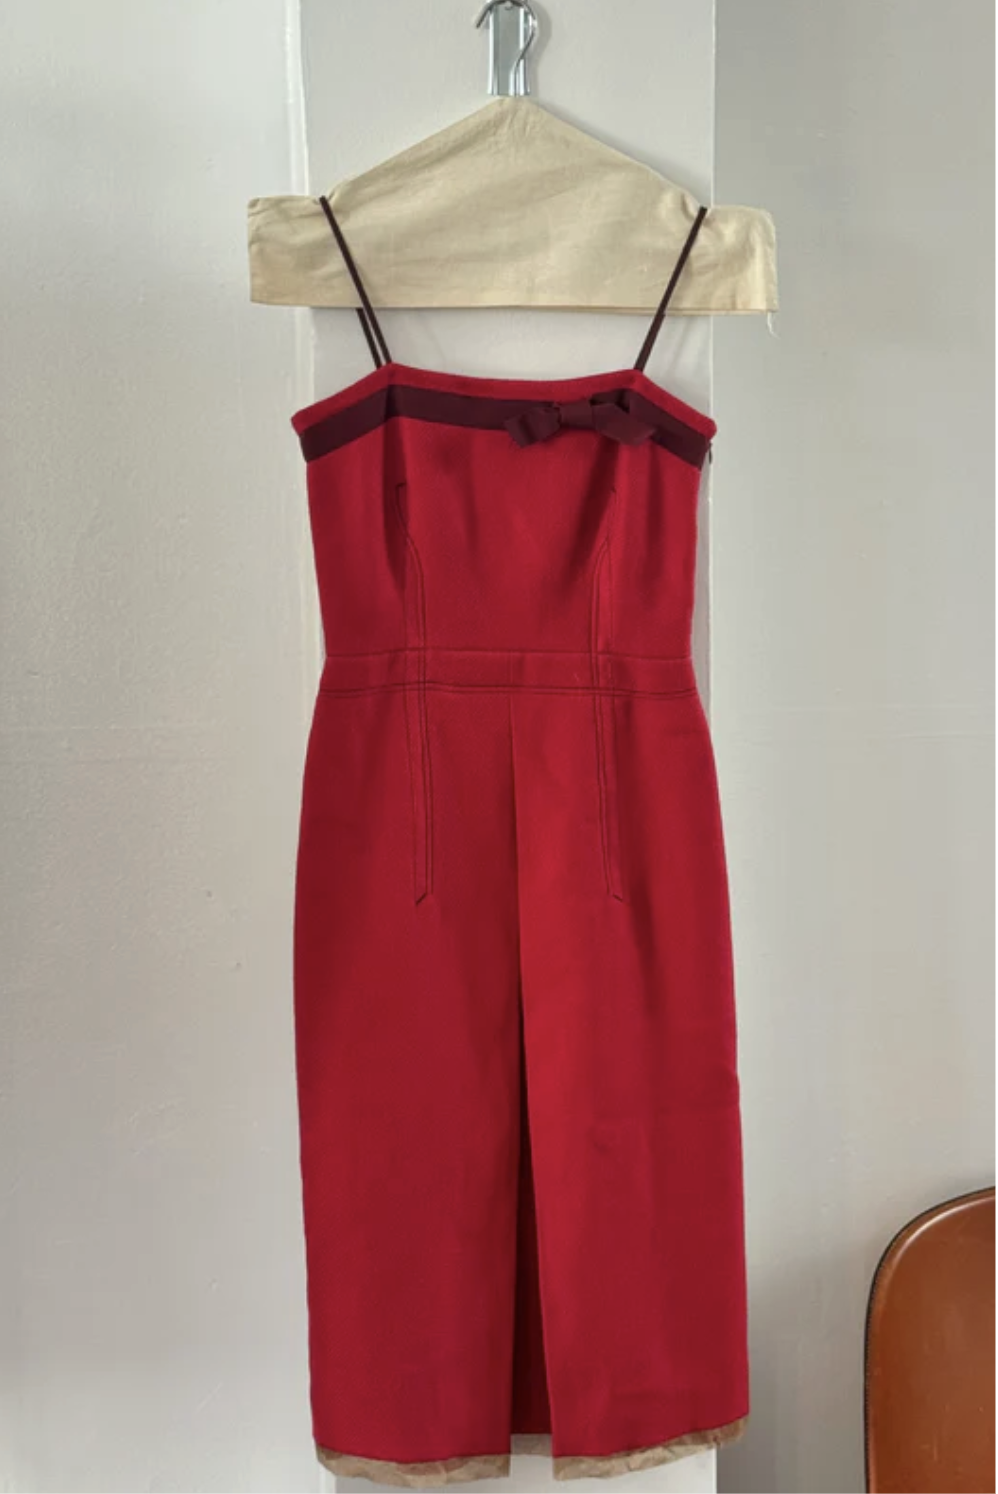
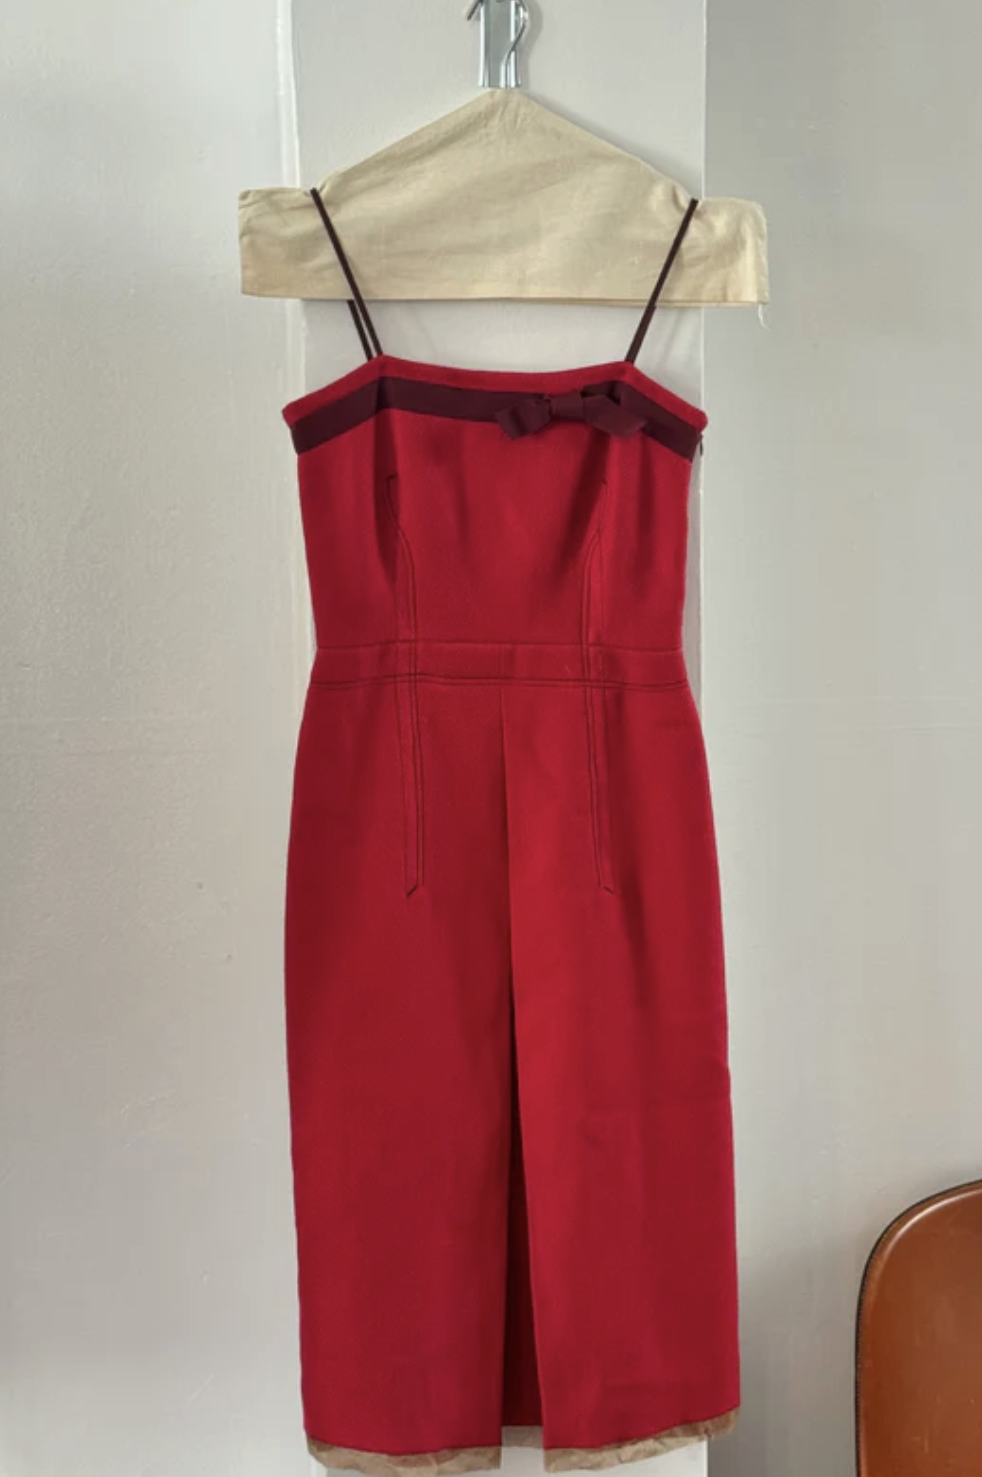
Make a change to the nav links to improve ux

diff --git a/beigecoat.html b/beigecoat.html
@@ -30,8 +30,8 @@
                 </a>
 
                 <!--Create account button-->
-                <a href="">
-                    Create Account
+                <a href="browse.html">
+                    Shop Now
                 </a>
 
                 <!--Back toggle-->

diff --git a/blackcoat.html b/blackcoat.html
@@ -30,8 +30,8 @@
                 </a>
 
                 <!--Create account button-->
-                <a href="">
-                    Create Account
+                <a href="browse.html">
+                    Shop Now
                 </a>
 
                 <!--Back toggle-->

diff --git a/blackdress.html b/blackdress.html
@@ -30,8 +30,8 @@
                 </a>
 
                 <!--Create account button-->
-                <a href="">
-                    Create Account
+                <a href="browse.html">
+                    Shop Now
                 </a>
 
                 <!--Back toggle-->

diff --git a/browse.html b/browse.html
@@ -29,8 +29,8 @@
                 </a>
 
                 <!--Create account button-->
-                <a href="">
-                    Create account
+                <a href="browse.html">
+                    Shop Now
                 </a>
 
                 <!--Back toggle-->

diff --git a/cartpage.html b/cartpage.html
@@ -30,8 +30,8 @@
                 </a>
 
                 <!--Create account button-->
-                <a href="">
-                    Create Account
+                <a href="browse.html">
+                    Shop Now
                 </a>
 
                 <!--Back toggle-->

diff --git a/checkout1.html b/checkout1.html
@@ -30,8 +30,8 @@
                 </a>
 
                 <!--Create account button-->
-                <a href="">
-                    Create Account
+                <a href="browse.html">
+                    Shop Now
                 </a>
 
                 <!--Back toggle-->

diff --git a/checkout2.html b/checkout2.html
@@ -30,8 +30,8 @@
                 </a>
 
                 <!--Create account button-->
-                <a href="">
-                    Create Account
+                <a href="browse.html">
+                    Shop Now
                 </a>
 
                 <!--Back toggle-->

diff --git a/confirmation.html b/confirmation.html
@@ -27,8 +27,8 @@
                 </a>
 
                 <!--Create account button-->
-                <a href="">
-                    Create Account
+                <a href="browse.html">
+                    Shop Now
                 </a>
 
                 <!--Back toggle-->

diff --git a/cupboardmag.html b/cupboardmag.html
@@ -30,8 +30,8 @@
                 </a>
 
                 <!--Create account button-->
-                <a href="">
-                    Create Account
+                <a href="browse.html">
+                    Shop Now
                 </a>
 
                 <!--Back toggle-->

diff --git a/diormag.html b/diormag.html
@@ -30,8 +30,8 @@
                 </a>
 
                 <!--Create account button-->
-                <a href="">
-                    Create Account
+                <a href="browse.html">
+                    Shop Now
                 </a>
 
                 <!--Back toggle-->

diff --git a/guccihandbag.html b/guccihandbag.html
@@ -30,8 +30,8 @@
                 </a>
 
                 <!--Create account button-->
-                <a href="">
-                    Create Account
+                <a href="browse.html">
+                    Shop Now
                 </a>
 
                 <!--Back toggle-->

diff --git a/index.html b/index.html
@@ -29,8 +29,8 @@
                 </a>
 
                 <!--Create account button-->
-                <a href="">
-                    Create account
+                <a href="browse.html">
+                    Shop Now
                 </a>
 
                 <!--Back toggle-->
